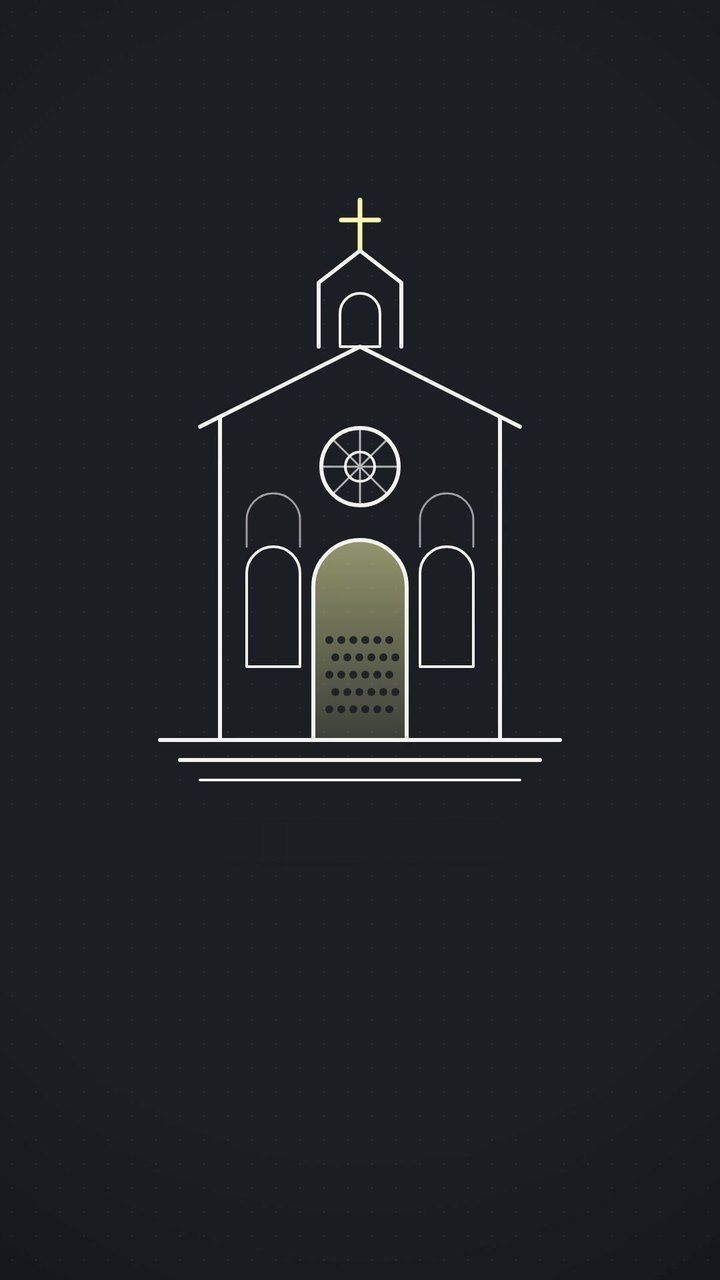
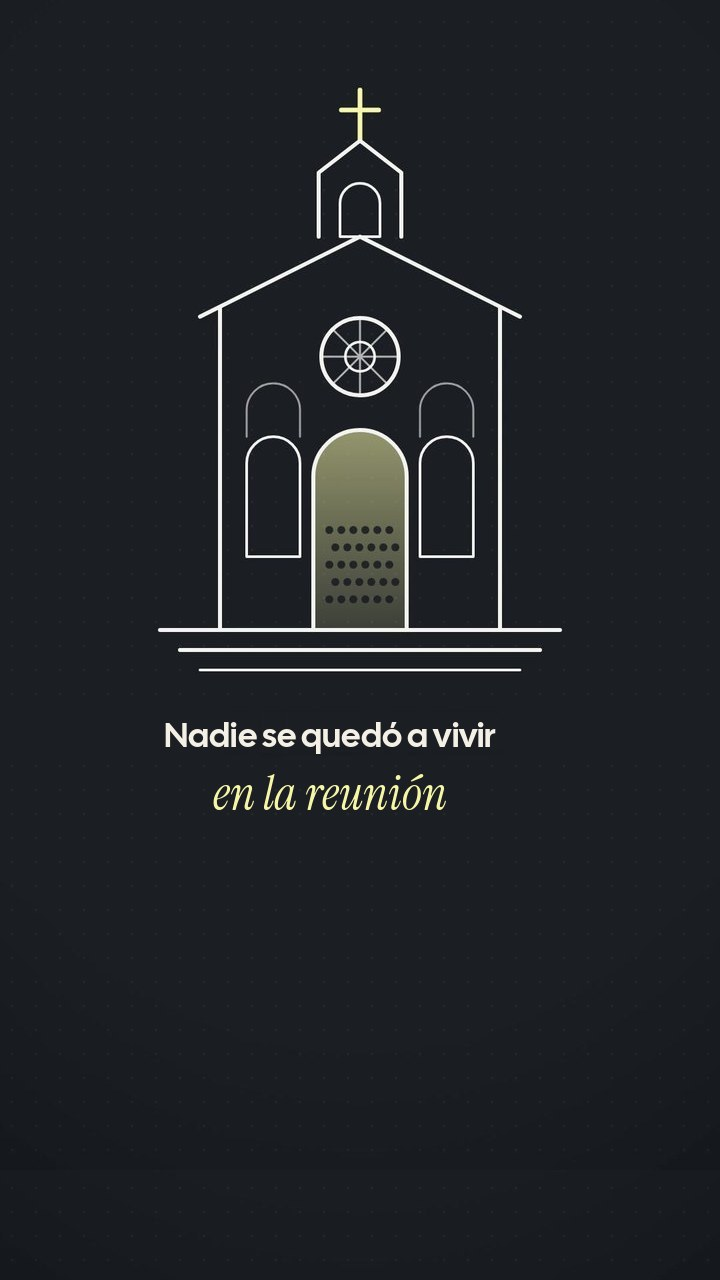
Landing: subtítulo animado sobre la iglesia del reel animado
Claude-Session: https://claude.ai/code/session_019cUTMLJJLShp2X98MfT38t

Changed region(s): [[0.2139, 0.0625, 0.7639, 0.6562], [0.275, 0.2188, 0.3667, 0.25]]

diff --git a/docs/index.html b/docs/index.html
@@ -51,7 +51,7 @@
     </div>
     <div class="tipos-carril">
   <article class="tipo estrella">
-    <div class="visual"><div class="celu inclina-d"><div class="pantalla"><img src="img/animado-iglesia.jpg?v=1795452732" alt="Reel animado con el dibujo de una iglesia"><div class="ui"><i></i><i></i><i></i></div><div class="barras"><b style="width:55%"></b><b></b></div></div></div><div class="burbuja ia"><small>La IA</small>Antes de animar todo, mirá estos 6 cuadros.</div></div>
+    <div class="visual"><div class="celu inclina-d"><div class="pantalla"><img src="img/animado-iglesia.jpg?v=1795476051" alt="Reel animado con el dibujo de una iglesia"><div class="ui"><i></i><i></i><i></i></div><div class="barras"><b style="width:55%"></b><b></b></div></div></div><div class="burbuja ia"><small>La IA</small>Antes de animar todo, mirá estos 6 cuadros.</div></div>
     <div>
       <span class="num">1 de 4</span>
       <h3>Reel animado</h3>
